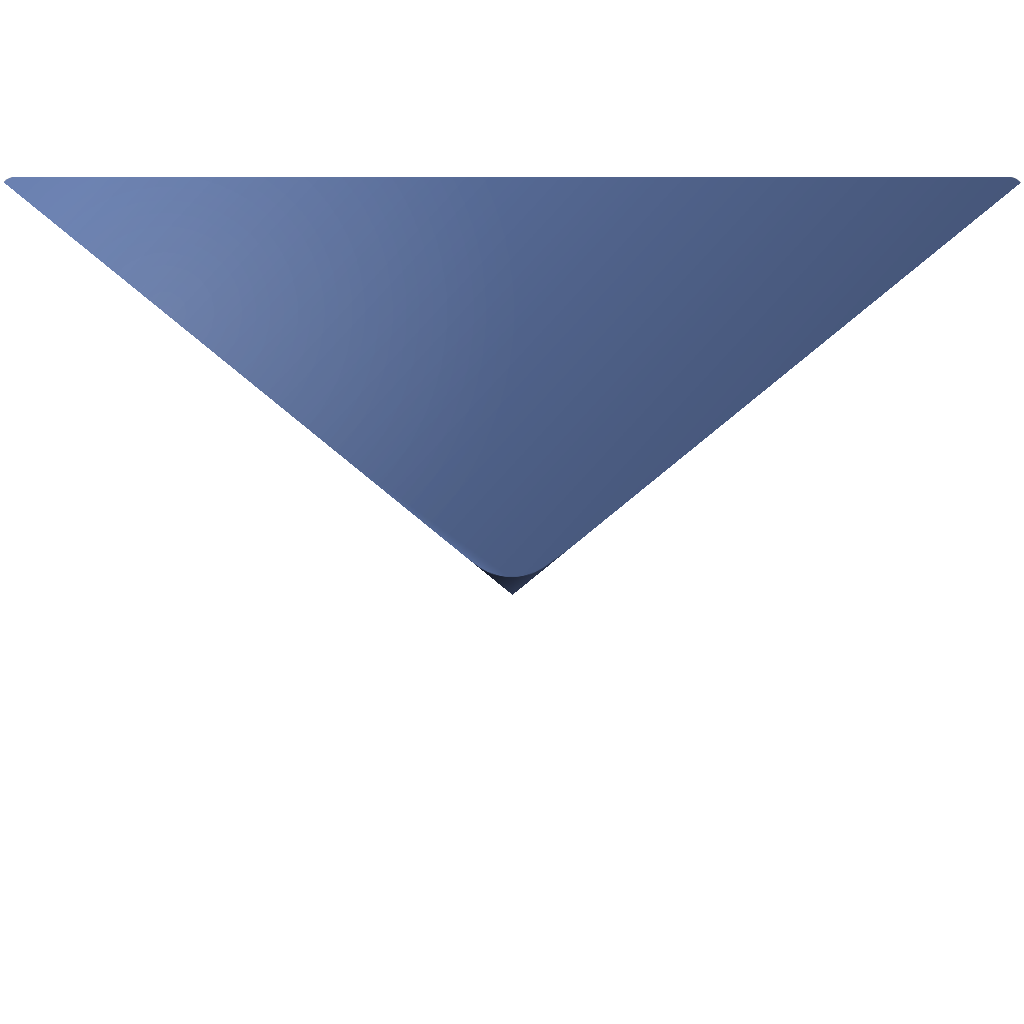
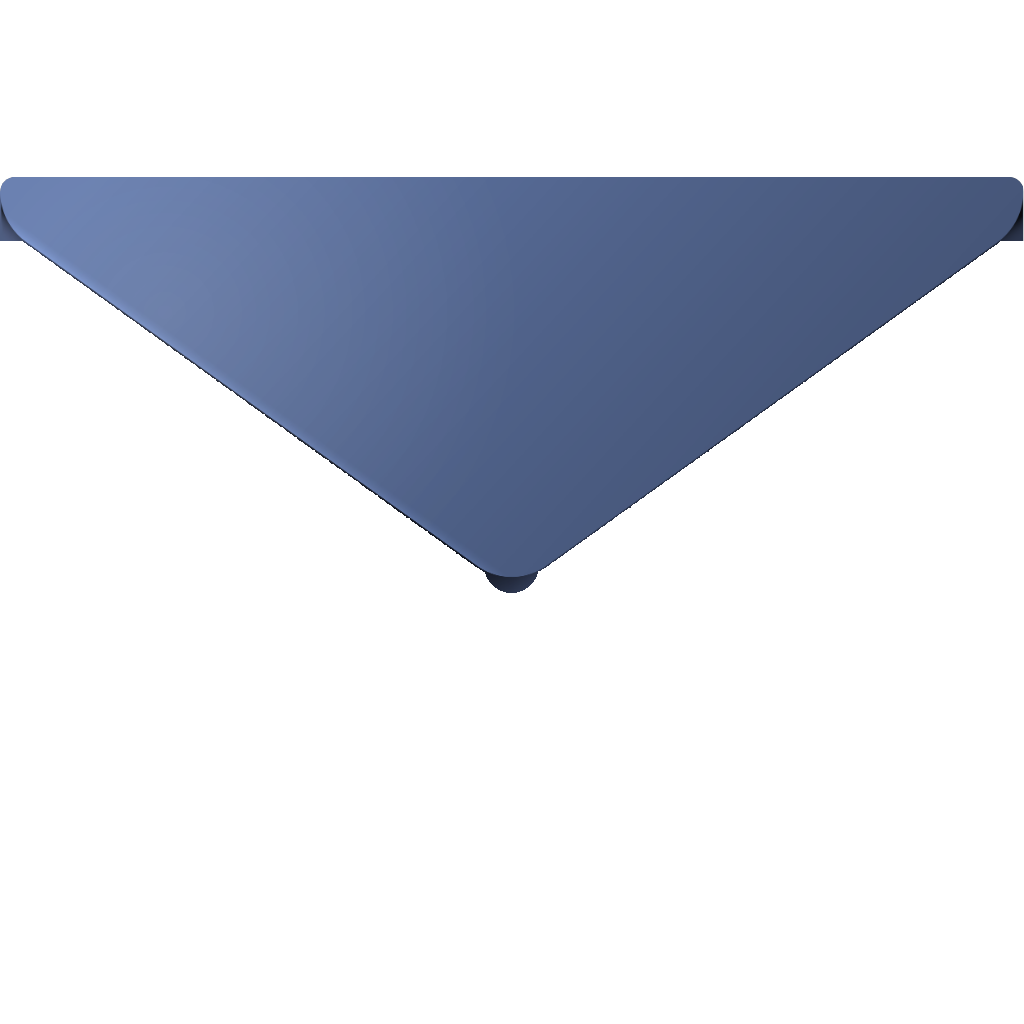
Add files via upload

diff --git a/index.html b/index.html
@@ -100,18 +100,28 @@ body.locked{overflow:hidden}
 @keyframes flotar{0%,100%{transform:translateY(0)}50%{transform:translateY(-8px)}}
 .env-fondo{width:100%;display:block;position:relative;z-index:1;filter:drop-shadow(0 26px 46px rgba(31,45,62,.32))}
 /* la "boca" del sobre: la tarjeta solo es visible dentro del triángulo del forro
-   y por encima del sobre, nunca sobre los paneles laterales */
+   y por encima del sobre; se extiende hacia arriba para que la tarjeta
+   nunca se recorte al salir */
+.env{perspective:1100px}
 .env-boca{
-  position:absolute;inset:0;z-index:2;pointer-events:none;
-  clip-path:polygon(0 0,100% 0,100% 17.8%,50% 56.5%,0 17.8%);
+  position:absolute;left:0;right:0;top:-50%;height:150%;
+  z-index:2;pointer-events:none;
+  clip-path:polygon(0 0,100% 0,100% 45.2%,50% 71%,0 45.2%);
 }
 .env-frente{position:absolute;inset:0;width:100%;z-index:3;pointer-events:none}
 .env-solapa{
-  position:absolute;inset:0;width:100%;z-index:4;pointer-events:none;
+  position:absolute;inset:0;z-index:4;pointer-events:none;
+  transform-style:preserve-3d;
   transform-origin:50% 17.7%;
-  transition:transform .9s cubic-bezier(.6,.05,.3,1) .25s;
+  transition:transform 1s cubic-bezier(.55,.06,.28,.99) .3s;
 }
-#sobre.open .env-solapa{transform:rotateX(180deg);z-index:1}
+.env-solapa img,.env-solapa .reverso{position:absolute;inset:0;width:100%;backface-visibility:hidden}
+.env-solapa .reverso{
+  transform:rotateX(180deg);transform-origin:50% 17.7%;
+  clip-path:polygon(2% 17.6%,98% 17.6%,50% 56.8%);
+  background:linear-gradient(180deg,#8FA5C3 18%,#C9D4E4 57%);
+}
+#sobre.open .env-solapa{transform:rotateX(178deg);z-index:1}
 .env-seal-img{
   position:absolute;left:50%;top:56.5%;width:21%;
   transform:translate(-50%,-50%);z-index:5;
@@ -120,17 +130,17 @@ body.locked{overflow:hidden}
 }
 #sobre.open .env-seal-img{opacity:0;transform:translate(-50%,-50%) scale(1.3) rotate(8deg)}
 .env-card{
-  position:absolute;left:24%;right:24%;top:25%;height:50%;
+  position:absolute;left:24%;right:24%;top:50%;height:33.4%;
   background:#FDFCF8;border:1px solid #D9D5C9;
   display:flex;flex-direction:column;align-items:center;justify-content:center;gap:.45rem;
-  transition:transform 1.1s cubic-bezier(.22,.8,.3,1) .7s;
+  transition:transform 1.1s cubic-bezier(.22,.8,.3,1) .75s;
 }
 .env-card::before{content:"";position:absolute;inset:6px;border:1px solid var(--seaglass);pointer-events:none}
 .env-card img{width:42px;opacity:.92}
 .env-card .n{font-family:var(--display);font-size:1rem;letter-spacing:.14em;text-transform:uppercase;color:var(--ink)}
 .env-div{width:40px;height:1px;background:var(--seaglass)}
 .env-card .f{font-size:.56rem;letter-spacing:.3em;color:var(--stone);text-transform:uppercase}
-#sobre.open .env-card{transform:translateY(-92%)}
+#sobre.open .env-card{transform:translateY(-118%)}
 .sobre-frase{margin-top:2rem;font-family:var(--display);font-style:italic;font-size:1.05rem;letter-spacing:.14em;color:var(--ink)}
 .sobre-hint{
   margin-top:.6rem;
@@ -418,7 +428,10 @@ footer .mono{font-family:var(--display);font-size:1.6rem;letter-spacing:.2em;col
         </div>
       </div>
       <img class="env-frente" src="sobre-frente.png" alt="" onerror="this.remove()">
-      <img class="env-solapa" src="sobre-solapa.png" alt="" onerror="this.remove()">
+      <div class="env-solapa">
+        <img src="sobre-solapa.png" alt="" onerror="this.parentElement.remove()">
+        <div class="reverso"></div>
+      </div>
       <img class="env-seal-img" src="sello.png" alt="" onerror="this.remove()">
       <img class="env-flores" src="flores.png" alt="" onerror="this.remove()">
       <img class="env-flores chica" src="flores2.png" alt="" onerror="this.remove()">